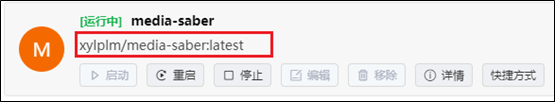
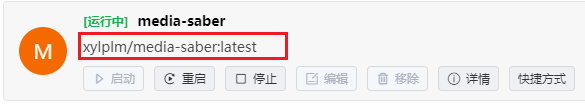
绿联安装更新图片清晰度更改

diff --git a/docs/docs/01.新手指引/02.如何安装/03.绿联NAS如何安装.md b/docs/docs/01.新手指引/02.如何安装/03.绿联NAS如何安装.md
@@ -21,41 +21,41 @@ Ps：Media Saber Wiki 使用文档及更新日志：[https://wiki.msaber.fun/](h
 ## 1. 容器安装
 
 1. 搜索 xylplm，点击下载，没特殊要求选择最新版本
-   ![图片1.jpg](./ugreen_images/1.jpg)
+   ![图片1.jpg](./ugreen_images/1.png)
 
-如果下载失败可以换换镜像源，我是自定义的这个镜像源【https://docker.nju.edu..cn/】，感觉拉取速度和成功率都很好，还是不行的话就在选择版本那停一下，多试几次，再不行就另找大佬求助吧。
+如果下载失败可以换换镜像源，我是自定义的这个镜像源【[https://docker.nju.edu.cn/](https://docker.nju.edu.cn/)】，感觉拉取速度和成功率都很好，还是不行的话就在选择版本那停一下，多试几次，再不行就另找大佬求助吧。
 
-![图片2.jpg](./ugreen_images/2.jpg)
+![图片2.jpg](./ugreen_images/2.png)
 
 2. 创建容器，容器名称自定义，一般默认，限制这里也是自定义，可以不设置，可以勾选上创建后重启容器。
 
-![图片3.jpg](./ugreen_images/3.jpg)
+![图片3.jpg](./ugreen_images/3.png)
 
 3. 基础设置选择容器退出时总是重启容器
 
-![图片4.jpg](./ugreen_images/4.jpg)
+![图片4.jpg](./ugreen_images/4.png)
 
 4. 我的存储空间设置如下
 
-![图片5.jpg](./ugreen_images/5.jpg)
+![图片5.jpg](./ugreen_images/5.png)
 
 这里仔细的说下我的绿联存储空间里影视文件夹的设置，仅供参考。
 
-![图片6.jpg](./ugreen_images/6.jpg)
+![图片6.jpg](./ugreen_images/6.png)
 
 Ps 大家影视文件夹挂载最好和 qb 统一，比如我的是统一的
 
-![图片7.jpg](./ugreen_images/7.jpg)
+![图片7.jpg](./ugreen_images/7.png)
 
 5. 本地端口我这里是 3000 被 nastool 使用，就填写的 13000，一般还是写默认的 3000.
 
-![图片8.jpg](./ugreen_images/8.jpg)
+![图片8.jpg](./ugreen_images/8.png)
 
 6. 环境填写
 
 Wiki 文件夹里说的这几项大家按需求来，一般 PUID 和 PGID 是默认为 0.
 
-![图片9.jpg](./ugreen_images/9.jpg)
+![图片9.jpg](./ugreen_images/9.png)
 
 另外需要填写的就是：
 
@@ -63,8 +63,8 @@ MEDIA_SABER_AUTH_EMAIL 对应申请时的邮箱
 
 MEDIA_SABER_AUTH_SLOGAN 对应申请时的口令
 
-![图片10.jpg](./ugreen_images/10.jpg)
+![图片10.jpg](./ugreen_images/10.png)
 
 7. 确认无误后点击完成
 
-![图片11.jpg](./ugreen_images/11.jpg)
+![图片11.jpg](./ugreen_images/11.png)
